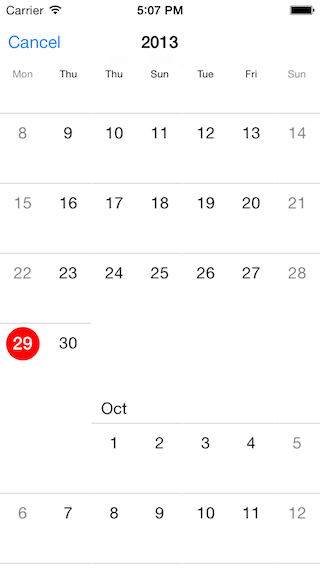
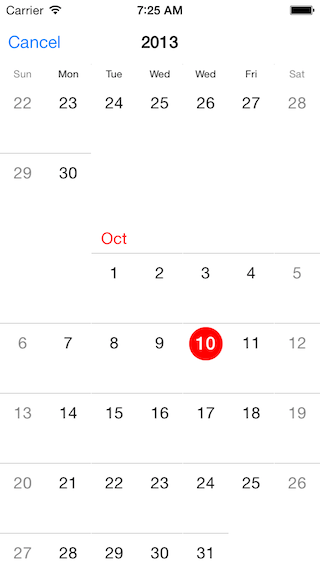
fixed weekday incorrect

diff --git a/HSUDatePicker/HSUDatePicker.m b/HSUDatePicker/HSUDatePicker.m
@@ -519,8 +519,12 @@ NSString *localWeekday(NSInteger weekday)
     NSDateFormatter *fmt = [[NSDateFormatter alloc] init];
     [fmt setDateFormat:@"E"];
     NSDate *date = [NSDate date];
-    NSDateComponents *components = [[NSCalendar currentCalendar] components:NSWeekdayCalendarUnit fromDate:date];
-    components.month = weekday;
+    NSDateComponents *components = [[NSCalendar currentCalendar] components:NSDayCalendarUnit|NSWeekdayCalendarUnit fromDate:date];
+    while (components.weekday != weekday) {
+        components.day += 1;
+        date = [[NSCalendar currentCalendar] dateFromComponents:components];
+        components = [[NSCalendar currentCalendar] components:NSDayCalendarUnit|NSWeekdayCalendarUnit fromDate:date];
+    }
     date = [[NSCalendar currentCalendar] dateFromComponents:components];
     return [fmt stringFromDate:date];
 }
